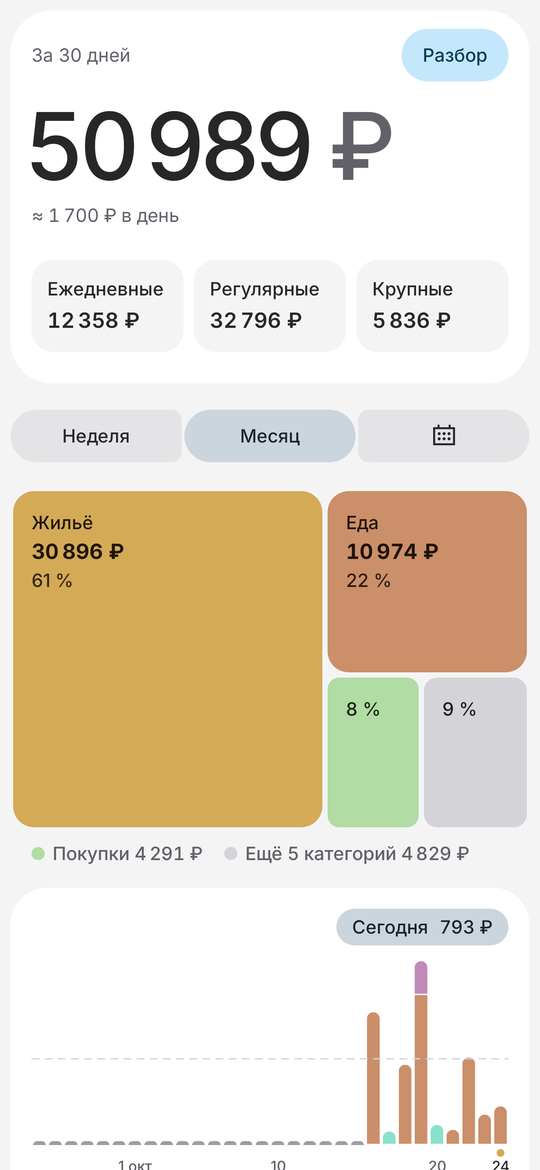
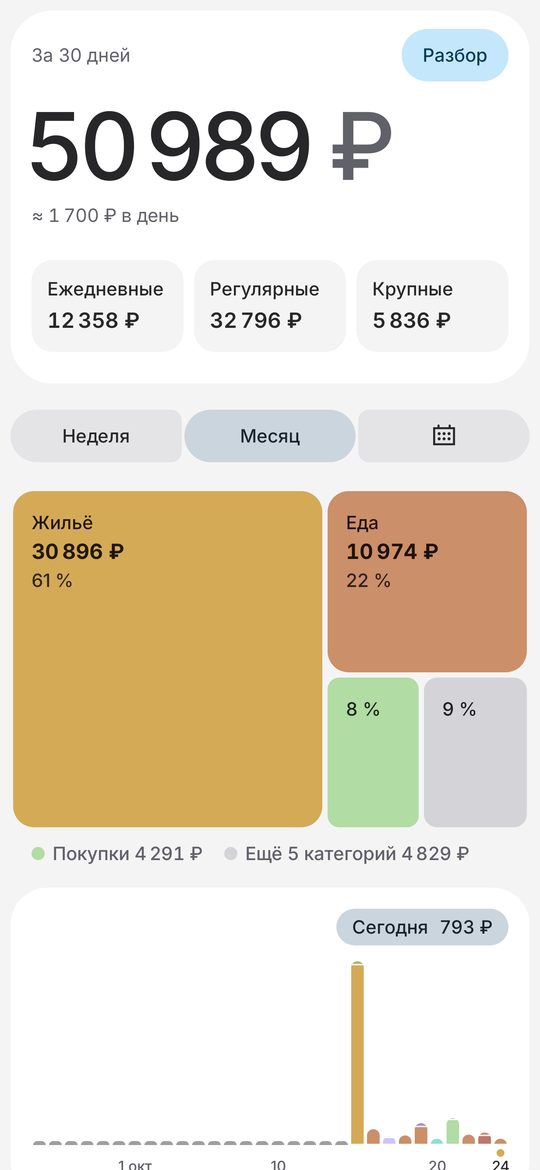
Insights: day bars show what the total shows
Without a group the bars were everyday spending only, so the last days
(Temu, a card fee) stood empty next to a total that counted them. Now the
bars, the total, the average and the mosaic all take every expense, or the
picked group's alone; the plan line shows under "Ежедневные". The review
keeps an everyday-only series of its own. Release 0.17.8.

Changed region(s): [[0.6519, 0.8, 0.9481, 0.9846]]

diff --git a/app/src/main/java/sh/aminov/golda/ui/AnalyticsScreen.kt b/app/src/main/java/sh/aminov/golda/ui/AnalyticsScreen.kt
@@ -139,9 +139,7 @@ fun AnalyticsScreen(data: AppData, padding: PaddingValues, onEdit: (OperationFul
     val shown = remember(data, period, filter) {
         val bucket = filter ?: return@remember report
         val only = data.operations.filter { it.op.type == OpType.EXPENSE && Buckets.of(it.op, data.categoryById) == bucket }
-        // The day bars count everyday spending only; for another bucket every expense of it is a bar.
-        val asDaily = data.categoryById.mapValues { (_, c) -> c.copy(bucket = Bucket.DAILY) }
-        Analytics.report(only.map { it.copy(op = it.op.copy(bucket = null)) }, data.accountById, asDaily, period, today, data.zone, data.rates)
+        Analytics.report(only, data.accountById, data.categoryById, period, today, data.zone, data.rates)
     }
     // Each day's spending by category, biggest first: the day bars are stacked in the categories' colours.
     val tones = LocalTones.current
@@ -154,9 +152,9 @@ fun AnalyticsScreen(data: AppData, padding: PaddingValues, onEdit: (OperationFul
         }
     }
     val stacks = remember(data, period, filter, tones, colours) {
-        val want = filter ?: Bucket.DAILY
+        // Like the mosaic and the total: every expense, or the picked group's alone.
         data.operations
-            .filter { it.op.type == OpType.EXPENSE && Buckets.of(it.op, data.categoryById) == want }
+            .filter { it.op.type == OpType.EXPENSE && (filter == null || Buckets.of(it.op, data.categoryById) == filter) }
             .groupBy { Ledger.localDate(it.op.timestamp, data.zone) }
             .mapValues { (_, ops) ->
                 ops.groupBy { it.op.categoryId?.let(data.categoryById::get)?.key }
@@ -266,7 +264,7 @@ fun AnalyticsScreen(data: AppData, padding: PaddingValues, onEdit: (OperationFul
                             days.flatMap { it.value }.groupBy { it.first }.map { (color, parts) -> color to parts.sumOf { it.second } }.sortedByDescending { it.second }
                         }
                     }
-                    val plan = data.envelope?.let { e -> data.rates.rubMinor(e.perDayMinor, e.currency) }?.takeIf { it > 0 && filter in listOf(null, Bucket.DAILY) && bar == Analytics.Bar.DAY }
+                    val plan = data.envelope?.let { e -> data.rates.rubMinor(e.perDayMinor, e.currency) }?.takeIf { it > 0 && filter == Bucket.DAILY && bar == Analytics.Bar.DAY }
                     DayBars(Analytics.bars(shown.days), today, kind, plan, data.base, barStacks)
                 }
             }

diff --git a/app/src/main/java/sh/aminov/golda/domain/Analytics.kt b/app/src/main/java/sh/aminov/golda/domain/Analytics.kt
@@ -21,8 +21,10 @@ data class CategorySpend(val categoryId: Long?, val rubMinor: Long)
 
 data class Report(
     val period: Period,
-    /** Everyday spending per day of the period, in rubles (kopecks), oldest first. */
+    /** Spending per day of the period, every expense, in rubles (kopecks), oldest first. */
     val days: List<Pair<LocalDate, Long>>,
+    /** Everyday spending alone per day, for the review: one rent would dwarf every other day. */
+    val dailyDays: List<Pair<LocalDate, Long>>,
     val spentRub: Long,
     /** All of [spentRub] over the days counted so far: plain arithmetic, the total a day. */
     val averagePerDayRub: Long,
@@ -97,9 +99,10 @@ object Analytics {
         val spent = expenses.sumOf(::cost)
         val byBucket = expenses.groupBy { Buckets.of(it.op, categories) }.mapValues { (_, list) -> list.sumOf(::cost) }
         val daily = byBucket[Bucket.DAILY] ?: 0
-        // The bars show everyday spending only: one rent would dwarf every other day.
-        val byDay = expenses.filter { Buckets.of(it.op, categories) == Bucket.DAILY }
-            .groupBy { Ledger.localDate(it.op.timestamp, zone) }.mapValues { (_, list) -> list.sumOf(::cost) }
+        // The bars are what the total is: every expense. A group's own bars are its report alone.
+        fun perDay(list: List<OperationFull>) = list.groupBy { Ledger.localDate(it.op.timestamp, zone) }.mapValues { (_, l) -> l.sumOf(::cost) }
+        val byDay = perDay(expenses)
+        val dailyByDay = perDay(expenses.filter { Buckets.of(it.op, categories) == Bucket.DAILY })
         val lastCounted = minOf(period.to, today)
         val countedDays = (ChronoUnit.DAYS.between(period.from, lastCounted) + 1).coerceAtLeast(1)
 
@@ -122,6 +125,7 @@ object Analytics {
         return Report(
             period = period,
             days = period.days.map { it to (byDay[it] ?: 0L) },
+            dailyDays = period.days.map { it to (dailyByDay[it] ?: 0L) },
             spentRub = spent,
             averagePerDayRub = spent / countedDays,
             dailyPerDayRub = daily / countedDays,

diff --git a/app/src/main/java/sh/aminov/golda/domain/Review.kt b/app/src/main/java/sh/aminov/golda/domain/Review.kt
@@ -121,11 +121,11 @@ object ReviewPrompt {
                 appendLine("- ${name(p.categoryId)}: сейчас ничего; было ${rub(p.rubMinor)}")
             }
             appendLine()
-            when (Analytics.barFor(report.days.size)) {
-                Analytics.Bar.DAY -> appendLine("Ежедневное по дням: " + report.days.joinToString("; ") { (d, minor) -> "${d.dayOfMonth}.${d.monthValue} ${weekdays[d.dayOfWeek.value - 1]} ${minor / 100}" })
+            when (Analytics.barFor(report.dailyDays.size)) {
+                Analytics.Bar.DAY -> appendLine("Ежедневное по дням: " + report.dailyDays.joinToString("; ") { (d, minor) -> "${d.dayOfMonth}.${d.monthValue} ${weekdays[d.dayOfWeek.value - 1]} ${minor / 100}" })
                 // A long period by weeks or months, so the lines stay readable and the request short.
-                Analytics.Bar.WEEK -> appendLine("Ежедневное по неделям, с даты: " + Analytics.bars(report.days).joinToString("; ") { (d, minor) -> "${d.dayOfMonth}.${d.monthValue}.${d.year} ${minor / 100}" })
-                Analytics.Bar.MONTH -> appendLine("Ежедневное по месяцам: " + Analytics.bars(report.days).joinToString("; ") { (d, minor) -> "${d.monthValue}.${d.year} ${minor / 100}" })
+                Analytics.Bar.WEEK -> appendLine("Ежедневное по неделям, с даты: " + Analytics.bars(report.dailyDays).joinToString("; ") { (d, minor) -> "${d.dayOfMonth}.${d.monthValue}.${d.year} ${minor / 100}" })
+                Analytics.Bar.MONTH -> appendLine("Ежедневное по месяцам: " + Analytics.bars(report.dailyDays).joinToString("; ") { (d, minor) -> "${d.monthValue}.${d.year} ${minor / 100}" })
             }
             appendLine()
             // How many of each weekday the period had, for an honest average per weekday.

diff --git a/app/src/test/java/sh/aminov/golda/AnalyticsTest.kt b/app/src/test/java/sh/aminov/golda/AnalyticsTest.kt
@@ -94,8 +94,13 @@ class AnalyticsTest {
         // The average is the whole total a day; everyday spending's own is kept for the review.
         assertEquals(r.spentRub / 7, r.averagePerDayRub)
         assertEquals(80_000L / 7, r.dailyPerDayRub)
-        assertEquals(50_000L, r.days.last().second)
-        assertEquals(30_000L, r.days[r.days.size - 2].second)
+        // The bars are every expense, like the total; the review's series is everyday spending alone.
+        assertEquals(r.spentRub, r.days.sumOf { it.second })
+        assertEquals(r.dailyRub, r.dailyDays.sumOf { it.second })
+        assertEquals(50_000L, r.dailyDays.last().second)
+        assertEquals(30_000L, r.dailyDays[r.dailyDays.size - 2].second)
+        // Today's bar has the 10 $ lunch and yesterday's the 5 000 ₽ purchase too.
+        assertEquals(142_000L, r.days.last().second)
     }
 
     @Test

diff --git a/CHANGELOG.md b/CHANGELOG.md
@@ -7,6 +7,17 @@ and this project adheres to [Semantic Versioning](https://semver.org/).
 
 ## [Unreleased]
 
+## [0.17.8] — 2026-11-03
+
+### Changed
+
+- **Insights' day bars follow the same rule as the total and the mosaic**:
+  every expense of the day, or only the picked group's. Before, without a
+  group they showed everyday spending alone, so a day with a big purchase
+  (Temu) or a credit card fee looked empty. The plan's dashed line shows under
+  "Ежедневные", the group it is meant for. Reconciliations are not spending
+  and stay off the bars.
+
 ## [0.17.7] — 2026-11-03
 
 ### Changed
@@ -417,7 +428,8 @@ First public release.
 - Spending is never recorded from bank notifications. Saying the purchase out
   loud is the point.
 
-[Unreleased]: https://github.com/shamil-aminov/golda/compare/v0.17.7...HEAD
+[Unreleased]: https://github.com/shamil-aminov/golda/compare/v0.17.8...HEAD
+[0.17.8]: https://github.com/shamil-aminov/golda/releases/tag/v0.17.8
 [0.17.7]: https://github.com/shamil-aminov/golda/releases/tag/v0.17.7
 [0.17.6]: https://github.com/shamil-aminov/golda/releases/tag/v0.17.6
 [0.17.5]: https://github.com/shamil-aminov/golda/releases/tag/v0.17.5
